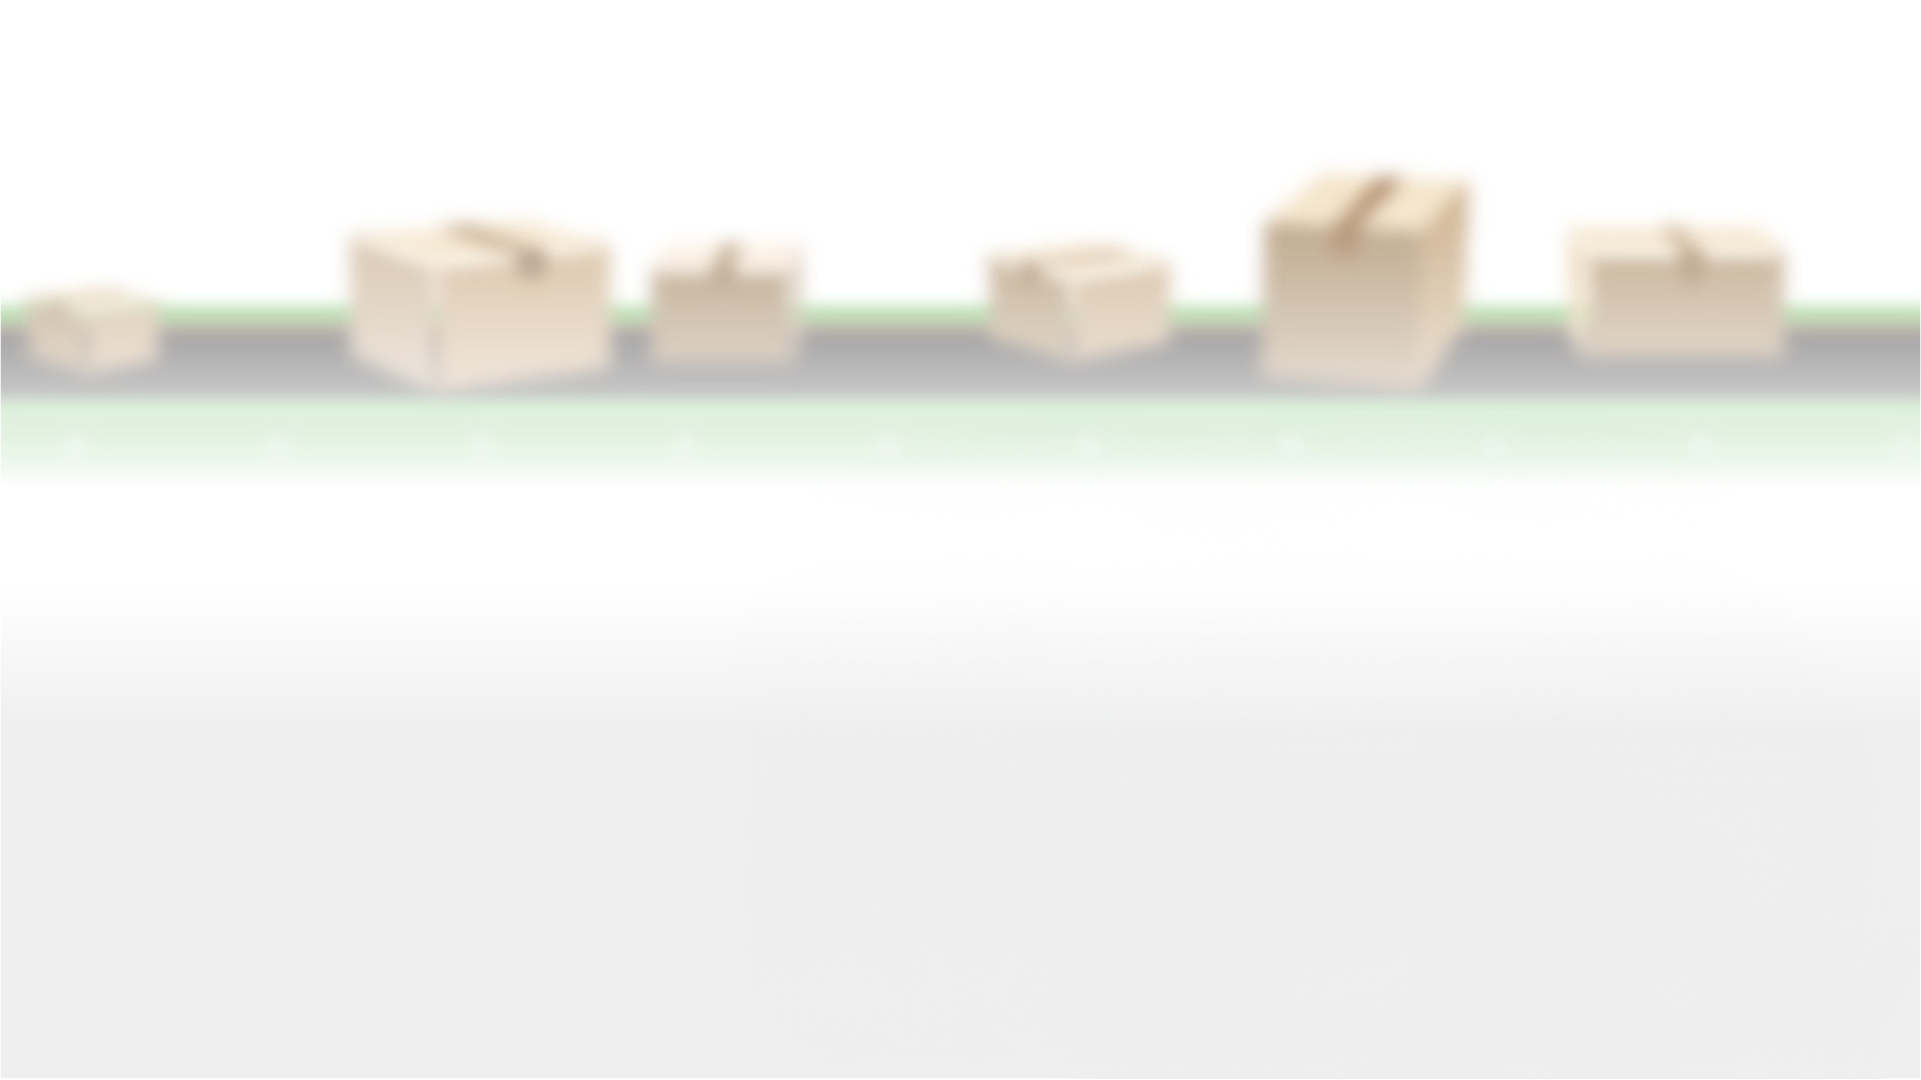
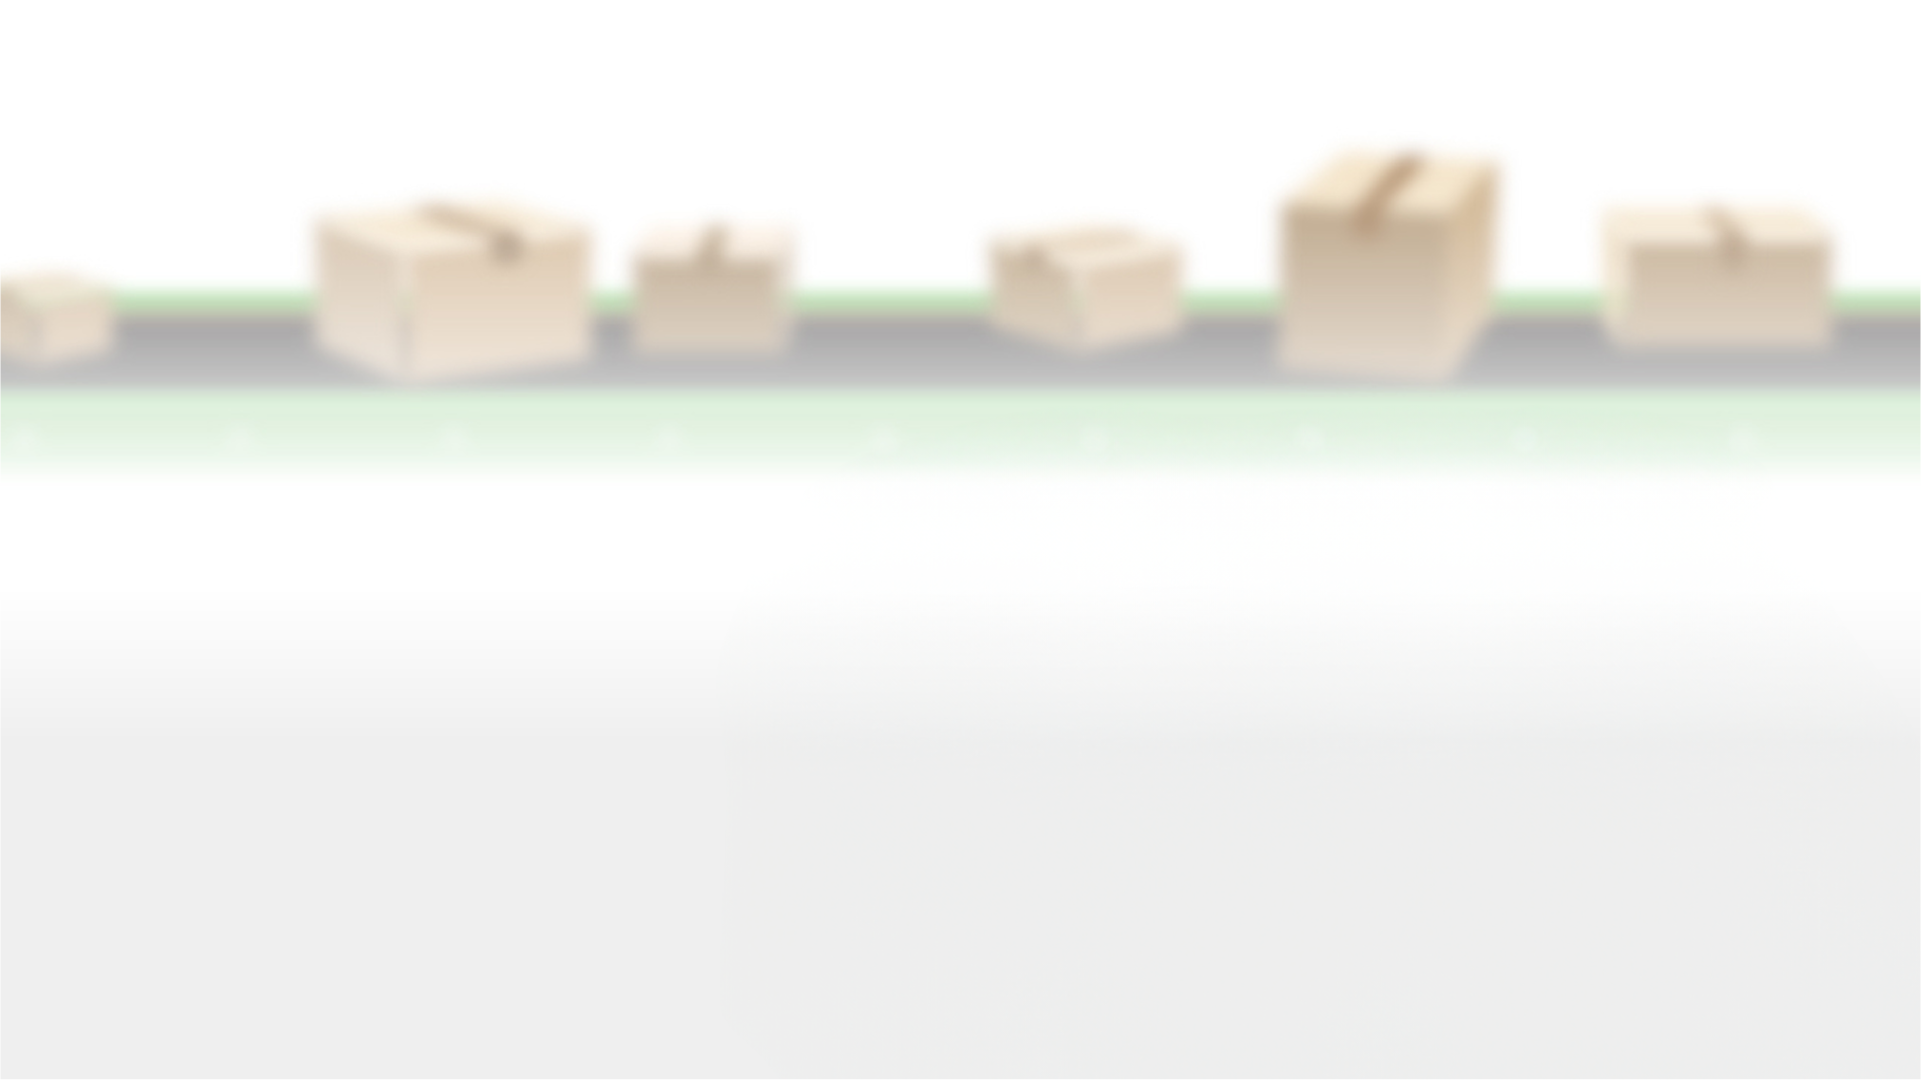
메인 퍼블완료

Changed region(s): [[0.0, 0.1222, 1.0, 0.3361]]

diff --git a/index.html b/index.html
@@ -355,11 +355,11 @@
                         <div class="swiper-slide">
                             <div class="item item1">
                                 <div class="bgBox">
+                                    <img src="./img/main/robotGoArti/bg1_1.png" alt="배경" class="bg"/>
                                     <img src="./img/main/robotGoArti/bg1.png" alt="배경" class="bg"/>
+                                    <img src="./img/main/robotGoArti/bg1_1.png" alt="배경" class="bg"/>
                                     <img src="./img/main/robotGoArti/bg1.png" alt="배경" class="bg"/>
-                                    <img src="./img/main/robotGoArti/bg1.png" alt="배경" class="bg"/>
-                                    <img src="./img/main/robotGoArti/bg1.png" alt="배경" class="bg"/>
-                                    <img src="./img/main/robotGoArti/bg1.png" alt="배경" class="bg"/>
+                                    <img src="./img/main/robotGoArti/bg1_1.png" alt="배경" class="bg"/>
                                     <img src="./img/main/robotGoArti/bg1.png" alt="배경" class="bg"/>
                                 </div>
                                 <div class="inner">
@@ -376,19 +376,22 @@
                         </div>
                         <div class="swiper-slide">
                             <div class="item item2">
+                                <img src="./img/main/robotGoArti/top_robot.png" alt="상단고정 로봇" class="bgRobot"/>
                                 <div class="bgBox">
+                                    <img src="./img/main/robotGoArti/bg2_1.png" alt="배경" class="bg"/>
                                     <img src="./img/main/robotGoArti/bg2.png" alt="배경" class="bg"/>
+                                    <img src="./img/main/robotGoArti/bg2_1.png" alt="배경" class="bg"/>
                                     <img src="./img/main/robotGoArti/bg2.png" alt="배경" class="bg"/>
+                                    <img src="./img/main/robotGoArti/bg2_1.png" alt="배경" class="bg"/>
                                     <img src="./img/main/robotGoArti/bg2.png" alt="배경" class="bg"/>
-                                    <img src="./img/main/robotGoArti/bg2.png" alt="배경" class="bg"/>
-                                    <img src="./img/main/robotGoArti/bg2.png" alt="배경" class="bg"/>
-                                    <img src="./img/main/robotGoArti/bg2.png" alt="배경" class="bg"/>
+                                    <img src="./img/main/robotGoArti/bg2_1.png" alt="배경" class="bg"/>
                                 </div>
                                 <div class="inner">
                                     <div class="halfBox">
                                         <div class="text">빠르고 정확한 작업이 필요한<br/>도로에서</div>
                                         <div class="robotWrap">
                                             <img src="./img/main/robotGoArti/robot2.png" alt="로봇" class="robot robot1" />
+                                            <img src="./img/main/robotGoArti/yelloBar.png" alt="노란색" class="yello" />
                                         </div>
                                     </div>
                                 </div>
@@ -407,6 +410,8 @@
                                         <div class="text">사람이 작업하기 힘든 <br/>특정환경에서</div>
                                         <div class="robotWrap">
                                             <img src="./img/main/robotGoArti/robot3.png" alt="로봇" class="robot robot1" />
+                                            <img src="./img/main/robotGoArti/worring.png" alt="지뢰" class="worring worring1" />
+                                            <img src="./img/main/robotGoArti/worring2.png" alt="지뢰" class="worring worring2" />
                                         </div>
                                     </div>
                                 </div>

diff --git a/style/style.css b/style/style.css
@@ -304,12 +304,18 @@ footer .box2 .copy_right{ margin-top: 20px; font-size: 14px; }
 /* .main .robotGoArti */
 .main .robotGoArti{ position: relative; overflow: hidden;  }
 .main .robotGoArti .swiper-slide{ height: auto !important; }
-.main .robotGoArti .item{ height: 100%; padding:300px 0 100px 0; position: relative; overflow: hidden; }
+.main .robotGoArti .item{ background: #fff; height: 100%; padding:300px 0 100px 0; position: relative; overflow: hidden; }
 .main .robotGoArti .item img{ max-width: 100%; }
 .main .robotGoArti .item .bgBox{ width: 100%; height: 100%; position: absolute; right: 0; top: 0; display: flex; align-items: flex-start; justify-content: flex-end; }
 .main .robotGoArti .item .bgBox .bg:nth-child(2n){ transform: scaleX(-1); }
-.main .robotGoArti .item .bgBox .bg{ height: 100%; max-width: unset; min-height: 100%; }
+.main .robotGoArti .item .bgBox .bg{ height: 100%; max-width: unset; min-height: 100%; margin-left: -2px; }
 .main .robotGoArti .item .inner{ position: relative; z-index: 2; height: 100%; }
+
+.main .robotGoArti .item2 .bgBox{ right: unset; left: 0;  }
+.main .robotGoArti .item.item2 .bgBox .bg:nth-child(2n){ transform: scaleX(1); }
+.main .robotGoArti .item.item2 .bgBox .bg:nth-child(2n-1){ transform: scaleX(-1); }
+.main .robotGoArti .item.item2 .yello{ position: absolute; left: 80%; bottom: 0; }
+.main .robotGoArti .item.item2 .bgRobot{ position: absolute; right: 0; top: 50px; z-index: 2; }
 
 .main .robotGoArti .item .halfBox{ display: flex; height: 100%; align-items: flex-end; justify-content: space-between; gap: 20px; }
 .main .robotGoArti .item .halfBox .text{ margin-bottom: 10%; flex-shrink: 0; font-weight: 700; font-size: 38px; }
@@ -321,6 +327,12 @@ footer .box2 .copy_right{ margin-top: 20px; font-size: 14px; }
 .main .robotGoArti .item .halfBox .robotWrap .robot2{ left: 20%; opacity: .2; }
 .main .robotGoArti .item .halfBox .robotWrap .robot3{ left: 40%; opacity: .2; }
 
+.main .robotGoArti .item.item3 .robotWrap{ position: relative; }
+.main .robotGoArti .item.item3 .worring{ position: absolute; }
+.main .robotGoArti .item.item3 .worring1{ left: -10%; bottom: 2%; }
+.main .robotGoArti .item.item3 .worring2{ right: -15%; top: 0%; }
+
+
 @media screen and (max-width: 1250px) { 
     .main .robotGoArti .item{ height: auto; padding: 300px 0 50px 0; }
     .main .robotGoArti .item .halfBox .text{ font-size: 30px; }
@@ -328,12 +340,17 @@ footer .box2 .copy_right{ margin-top: 20px; font-size: 14px; }
     .main .robotGoArti .item.item3 .halfBox .robotWrap{ width: 60vw; margin-right: 0; }
     .main .robotGoArti .item .bgBox{ width: 100%; height: 100%; }
     .main .robotGoArti .item .bgBox .bg{ height: 100%; }
+
+    .main .robotGoArti .item.item2 .bgRobot{ width: 25vw; }
+    .main .robotGoArti .item.item3 .worring{ width: 20%; }
+    .main .robotGoArti .item.item3 .worring2{ right: 0%; top: 0%; }
 }
 @media screen and (max-width: 900px) { 
     .main .robotGoArti .item{ height: 100%; padding: 150px 0 50px 0; }
     .main .robotGoArti .item .halfBox .text{ margin-bottom: 0; font-size: 20px; }
     .main .robotGoArti .item .halfBox{ gap: 40px; text-align: center; flex-direction: column; align-items: center; }
 
+    .main .robotGoArti .item.item2 .bgRobot{ width: 35vw; min-width: 200px; top: 80px; }
     .main .robotGoArti .item .halfBox .robotWrap{ width: 70vw; margin-right: 0; }
     .main .robotGoArti .item.item3 .halfBox .robotWrap{ width: 100vw; }
 }

diff --git a/style/animation.css b/style/animation.css
@@ -1,11 +1,53 @@
 @charset "utf-8";
 
 
-.main .robotGoArti .item.item1 .bgBox .bg 
-/* , .main .robotGoArti .item.item2 .bgBox .bg */
-{ animation: marquee4 infinite 30s linear; }
-
+.main .robotGoArti .item.item1 .bgBox .bg , 
+.main .robotGoArti .item.item2 .bgBox .bg{ animation: marquee4 infinite 30s linear; }
 @keyframes marquee4{
     0% { transform: translateX(0); }
     100% { transform: translateX(100%); }
+}
+
+.main .robotGoArti .swiper-slide-active .item.item1 .halfBox .robotWrap .robot1{ transform: translateX(40%); animation: item1Move 4s ease-in-out 0s 1 forwards running; }
+.main .robotGoArti .item.item1 .halfBox .robotWrap .robot2{ opacity: 0; animation: item1Opacity2 ease-in-out 4s infinite; }
+.main .robotGoArti .item.item1 .halfBox .robotWrap .robot3{ opacity: 0; animation: item1Opacity ease-in-out 4s infinite; }
+
+@keyframes item1Move{
+    20% { transform: translateX(20%); }
+    40% { transform: translateX(0); }
+    50%{ transform: translateX(0); }
+    100%{ transform: translateX(0); }
+    /* 100% { transform: translateX(40%); } */
+}
+@keyframes item1Opacity{
+    0% { opacity: 0; }
+    20% { opacity: .2; }
+    40% { opacity: .2; }
+    50%{ opacity: .2; }
+    60%{ opacity: 0; }
+    100% { opacity: 0; }
+}
+@keyframes item1Opacity2{
+    0% { opacity: 0; }
+    20% { opacity: 0; }
+    40% { opacity: .2; }
+    50%{ opacity: .2; }
+    60%{ opacity: 0; }
+    100% { opacity: 0; }
+}
+
+.main .robotGoArti .item.item2 .yello{ animation: item2Width linear 4s infinite; }
+@keyframes item2Width{  0% { width: 0; height: 12%; }  100% { width: 100%; height: 12%; } }
+
+.main .robotGoArti .item.item2 .bgRobot{ animation: item2Robot2 4s linear infinite; }
+@keyframes item2Robot2{
+    0% { transform: translateX( 20%); } 20% { transform: translateX(0%); } 40%{ transform: translateX(0%);  } 100%{  transform: translateX(20%); }
+}
+.main .robotGoArti .item.item3 .halfBox .robotWrap .robot1{ animation: item2Robot4 linear 8s infinite; }
+@keyframes item2Robot4{
+    0%{ transform: translateX(0) translateY(0); }
+    20%{ transform: translateX(5%) translateY(5%); }
+    40%{ transform: translateX(-2.5%) translateY(-2.5%); }
+    60%{ transform: translateX(5%) translateY(-2.5%); }
+    100%{  transform: translateX(0) translateY(0); }
 }

diff --git a/script/script.js b/script/script.js
@@ -18,6 +18,7 @@ document.addEventListener("DOMContentLoaded", function(e){
 const robotGoArti = () => {
     var swiper = new Swiper(".robotGoArti .mySwiper", {
         loop : true, 
+        effect: "fade",
     });
 }
 
